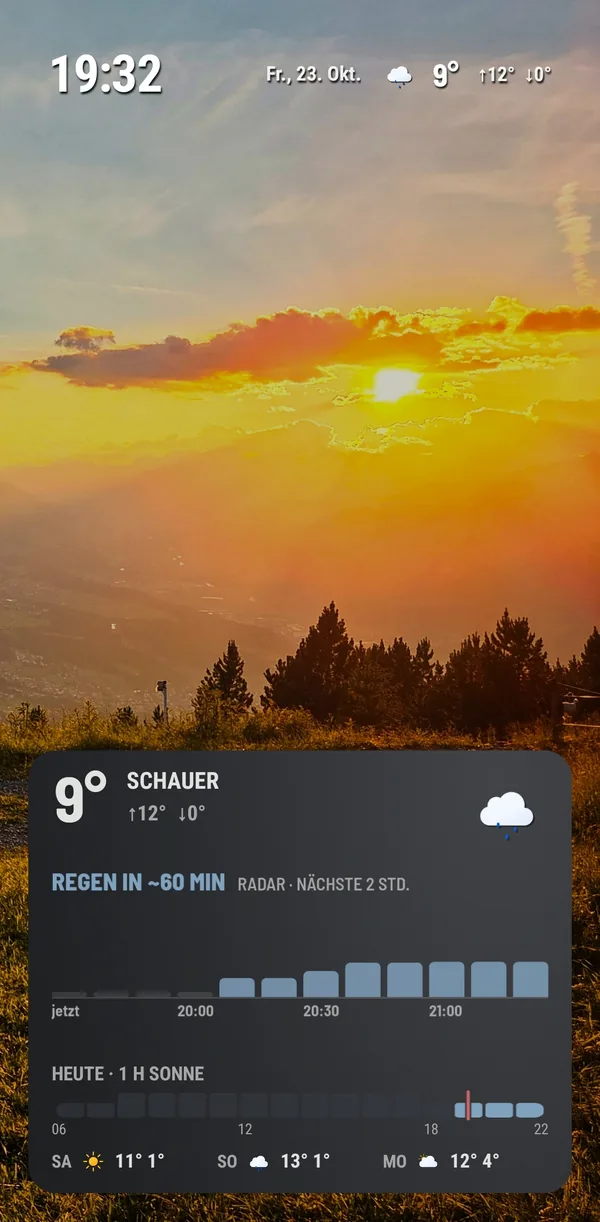
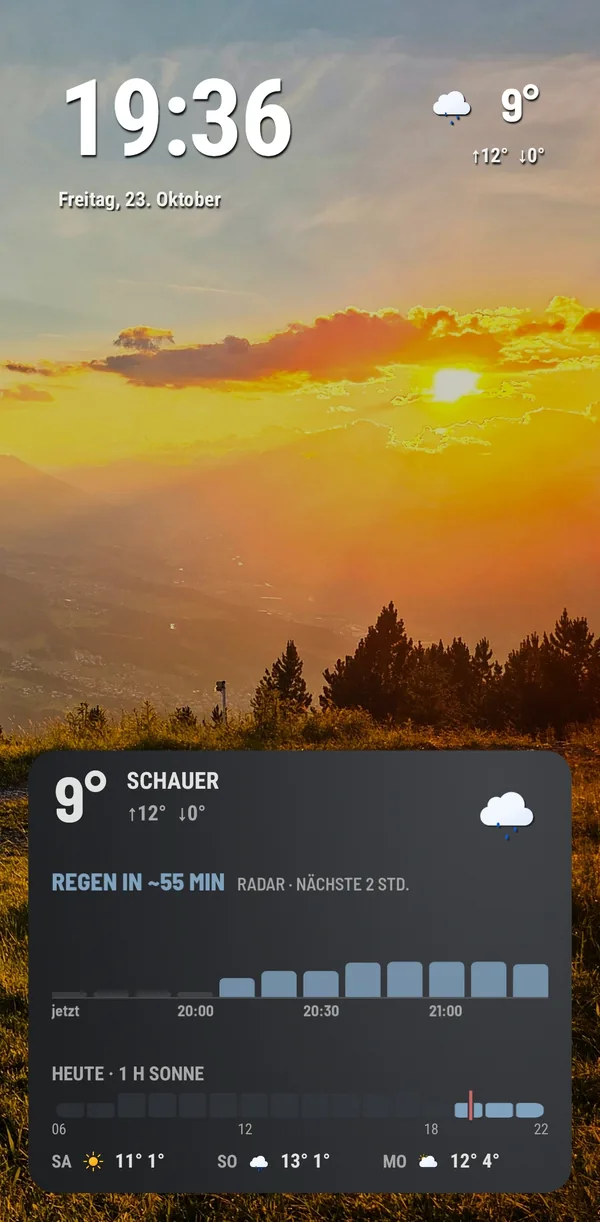
Texte bescheidener, „aus den Alpen“ statt Tirol, neuer Widget-Screenshot
- Hero: „Android-Apps aus den Alpen.“
- Haltung: persönlicher, ohne Selbstlob
- Drift: Beschreibung des Graphs mit allen Ebenen, Profil „Radfahren“ wie in der App
- Footer überall „Alpen“

Claude-Session: https://claude.ai/code/session_017odYhpXixmKQ8dy3U8U5RP

diff --git a/index.html b/index.html
@@ -4,10 +4,10 @@
 <meta charset="UTF-8">
 <meta name="viewport" content="width=device-width, initial-scale=1.0, viewport-fit=cover">
 <title>Altitude Built</title>
-<meta name="description" content="Altitude Built entwickelt klare, schöne Android-Apps in Tirol. Ohne Konto, mit möglichst wenig Berechtigungen.">
+<meta name="description" content="Android-Apps aus den Alpen. Ohne Konto, mit möglichst wenig Berechtigungen.">
 <meta name="theme-color" content="#0E1520">
 <meta property="og:title" content="Altitude Built">
-<meta property="og:description" content="Klare Apps für Android. Gebaut in Tirol.">
+<meta property="og:description" content="Android-Apps aus den Alpen.">
 <meta property="og:image" content="https://altitude-built.github.io/og-image.jpg">
 <meta property="og:type" content="website">
 <link rel="icon" type="image/png" href="Altitude-Built_Zeichen_512.png">
@@ -262,7 +262,7 @@ footer nav a:hover{color:var(--snow)}
         <path class="w-cream" fill-rule="evenodd" d="M1295,178 1296,177 1403,177 1423,179 1434,184 1439,189 1442,195 1445,209 1445,224 1446,225 1445,265 1443,276 1438,287 1433,292 1427,295 1414,298 1296,299 1295,298ZM181,174 232,262 231,264 131,264 130,263ZM1521,162 1521,314 1674,314 1674,299 1541,299 1540,298 1540,245 1541,244 1666,244 1666,229 1541,229 1540,228 1540,177 1541,176 1671,176 1671,162ZM1277,162 1277,314 1410,314 1436,309 1444,305 1453,297 1458,288 1462,273 1464,254 1464,222 1460,193 1456,183 1448,173 1435,166 1413,162ZM1034,162 1035,268 1041,293 1050,305 1065,313 1087,317 1164,317 1190,312 1198,308 1204,303 1212,290 1217,267 1218,162 1200,162 1200,249 1199,250 1198,274 1195,284 1188,294 1179,299 1157,302 1083,301 1068,297 1060,290 1057,285 1054,275 1052,255 1052,162ZM814,162 814,176 889,176 890,177 890,314 909,314 909,177 910,176 985,176 985,162ZM741,162 741,314 759,314 759,162ZM515,162 515,176 591,176 592,177 592,314 610,314 610,178 612,176 687,176 687,162ZM334,162 334,314 474,314 474,299 353,299 352,298 352,162ZM80,314 101,314 120,279 242,279 261,314 282,314 194,162 168,162Z"/>
         <path class="w-ember" fill-rule="evenodd" d="M87,418 88,417 134,418 137,419 141,423 142,433 141,436 136,440 88,441 87,440ZM87,393 88,392 135,393 139,397 139,406 135,411 132,412 88,412 87,411ZM523,387 523,392 551,392 552,393 552,446 559,446 559,393 560,392 588,392 588,387ZM413,387 413,446 466,446 466,441 421,441 419,439 419,387ZM342,387 342,446 348,446 348,387ZM209,387 209,430 214,442 219,445 228,447 260,447 268,445 275,440 279,427 279,387 273,387 273,421 272,431 270,436 266,440 263,441 251,441 250,442 225,441 222,440 217,435 215,428 215,387ZM80,387 80,446 130,446 140,444 146,440 148,435 148,424 146,419 138,414 144,410 146,404 145,395 140,389 132,387Z"/>
       </svg>
-      <p class="tagline">Klare Apps für Android. <b>Gebaut in Tirol.</b></p>
+      <p class="tagline">Android-Apps <b>aus den Alpen.</b></p>
     </div>
 
     <div class="hud" aria-hidden="true">
@@ -279,8 +279,8 @@ footer nav a:hover{color:var(--snow)}
         <h2>Weniger Gepäck.<br><em>Mehr Aussicht.</em></h2>
       </div>
       <div>
-        <p>Altitude Built baut Android-Apps, die ein echtes Alltagsproblem lösen und dabei richtig gut aussehen.</p>
-        <p>Keine überladenen Menüs, keine unnötigen Funktionen. Jede App wird so lange verfeinert, bis sie sich selbstverständlich anfühlt.</p>
+        <p>Altitude Built ist ein kleines Projekt aus den Alpen. Die Apps entstehen aus Dingen, die mich im Alltag selbst stören: beim Radfahren, beim Pendeln oder beim Tippen am Handy.</p>
+        <p>Lieber weniger Funktionen, die dafür gut durchdacht und angenehm zu bedienen sind.</p>
       </div>
     </section>
 
@@ -316,7 +316,7 @@ footer nav a:hover{color:var(--snow)}
             <div><h3>Drift Weather</h3><span class="chip">Interner Test</span></div>
           </div>
           <p class="app-claim">Das Wetter als Linie, nicht als Liste.</p>
-          <p>Temperatur, Regen, Wolken und Wind als ruhige Linien in einem Graph. Profile wie „Rennrad“ oder „Pendeln“ finden für jeden Tag die beste Zeit und sagen ehrlich, wenn es heute nichts wird.</p>
+          <p>Drift zeigt den ganzen Tag in einem einzigen Graph. Temperatur, Regen, Wind, Wolken, Luftdruck, Pollen und mehr liegen als Ebenen übereinander, jede lässt sich ein- und ausblenden. Profile wie „Radfahren“ oder „Pendeln“ finden für jeden Tag die beste Zeit und sagen ehrlich, wenn es heute nichts wird.</p>
           <ul class="facts">
             <li>Mehrere Wettermodelle im Vergleich, Uneinigkeit wird offen gezeigt</li>
             <li>Widgets in allen Größen und die Drift Uhr</li>
@@ -394,7 +394,7 @@ footer nav a:hover{color:var(--snow)}
   <div class="wrap">
     <div class="fb">
       <svg viewBox="84 110 348 306" aria-hidden="true"><path fill="#E9A46A" d="M251,118 L116,338 L92,382 L160,350 L184,336 L250,225 L325,352 L270,356 L425,409Z"/></svg>
-      <span>© 2026 Altitude Built · Tirol</span>
+      <span>© 2026 Altitude Built · Alpen</span>
     </div>
     <nav aria-label="Rechtliches">
       <a href="impressum.html">Impressum</a>

diff --git a/src/index.template.html b/src/index.template.html
@@ -4,10 +4,10 @@
 <meta charset="UTF-8">
 <meta name="viewport" content="width=device-width, initial-scale=1.0, viewport-fit=cover">
 <title>Altitude Built</title>
-<meta name="description" content="Altitude Built entwickelt klare, schöne Android-Apps in Tirol. Ohne Konto, mit möglichst wenig Berechtigungen.">
+<meta name="description" content="Android-Apps aus den Alpen. Ohne Konto, mit möglichst wenig Berechtigungen.">
 <meta name="theme-color" content="#0E1520">
 <meta property="og:title" content="Altitude Built">
-<meta property="og:description" content="Klare Apps für Android. Gebaut in Tirol.">
+<meta property="og:description" content="Android-Apps aus den Alpen.">
 <meta property="og:image" content="https://altitude-built.github.io/og-image.jpg">
 <meta property="og:type" content="website">
 <link rel="icon" type="image/png" href="Altitude-Built_Zeichen_512.png">
@@ -262,7 +262,7 @@ footer nav a:hover{color:var(--snow)}
         <path class="w-cream" fill-rule="evenodd" d="{{WORD_CREAM}}"/>
         <path class="w-ember" fill-rule="evenodd" d="{{WORD_EMBER}}"/>
       </svg>
-      <p class="tagline">Klare Apps für Android. <b>Gebaut in Tirol.</b></p>
+      <p class="tagline">Android-Apps <b>aus den Alpen.</b></p>
     </div>
 
     <div class="hud" aria-hidden="true">
@@ -279,8 +279,8 @@ footer nav a:hover{color:var(--snow)}
         <h2>Weniger Gepäck.<br><em>Mehr Aussicht.</em></h2>
       </div>
       <div>
-        <p>Altitude Built baut Android-Apps, die ein echtes Alltagsproblem lösen und dabei richtig gut aussehen.</p>
-        <p>Keine überladenen Menüs, keine unnötigen Funktionen. Jede App wird so lange verfeinert, bis sie sich selbstverständlich anfühlt.</p>
+        <p>Altitude Built ist ein kleines Projekt aus den Alpen. Die Apps entstehen aus Dingen, die mich im Alltag selbst stören: beim Radfahren, beim Pendeln oder beim Tippen am Handy.</p>
+        <p>Lieber weniger Funktionen, die dafür gut durchdacht und angenehm zu bedienen sind.</p>
       </div>
     </section>
 
@@ -316,7 +316,7 @@ footer nav a:hover{color:var(--snow)}
             <div><h3>Drift Weather</h3><span class="chip">Interner Test</span></div>
           </div>
           <p class="app-claim">Das Wetter als Linie, nicht als Liste.</p>
-          <p>Temperatur, Regen, Wolken und Wind als ruhige Linien in einem Graph. Profile wie „Rennrad“ oder „Pendeln“ finden für jeden Tag die beste Zeit und sagen ehrlich, wenn es heute nichts wird.</p>
+          <p>Drift zeigt den ganzen Tag in einem einzigen Graph. Temperatur, Regen, Wind, Wolken, Luftdruck, Pollen und mehr liegen als Ebenen übereinander, jede lässt sich ein- und ausblenden. Profile wie „Radfahren“ oder „Pendeln“ finden für jeden Tag die beste Zeit und sagen ehrlich, wenn es heute nichts wird.</p>
           <ul class="facts">
             <li>Mehrere Wettermodelle im Vergleich, Uneinigkeit wird offen gezeigt</li>
             <li>Widgets in allen Größen und die Drift Uhr</li>
@@ -394,7 +394,7 @@ footer nav a:hover{color:var(--snow)}
   <div class="wrap">
     <div class="fb">
       <svg viewBox="84 110 348 306" aria-hidden="true"><path fill="#E9A46A" d="{{MARK}}"/></svg>
-      <span>© 2026 Altitude Built · Tirol</span>
+      <span>© 2026 Altitude Built · Alpen</span>
     </div>
     <nav aria-label="Rechtliches">
       <a href="impressum.html">Impressum</a>

diff --git a/datenschutz.html b/datenschutz.html
@@ -75,7 +75,7 @@
   <p class="stand">Stand: Oktober 2026</p>
 </main>
 <footer><div class="wrap">
-  <span>© 2026 Altitude Built · Tirol</span>
+  <span>© 2026 Altitude Built · Alpen</span>
   <nav aria-label="Rechtliches"><a href="impressum.html">Impressum</a><a href="datenschutz.html" aria-current="page">Datenschutz</a></nav>
 </div></footer>
 </body>

diff --git a/drift/datenschutz/index.html b/drift/datenschutz/index.html
@@ -80,7 +80,7 @@
   <p class="stand">Stand: Oktober 2026</p>
 </main>
 <footer><div class="wrap">
-  <span>© 2026 Altitude Built · Tirol</span>
+  <span>© 2026 Altitude Built · Alpen</span>
   <nav aria-label="Rechtliches"><a href="../../impressum.html">Impressum</a><a href="../../datenschutz.html">Datenschutz Website</a></nav>
 </div></footer>
 </body>

diff --git a/impressum.html b/impressum.html
@@ -47,7 +47,7 @@
   <p class="stand">Stand: Oktober 2026</p>
 </main>
 <footer><div class="wrap">
-  <span>© 2026 Altitude Built · Tirol</span>
+  <span>© 2026 Altitude Built · Alpen</span>
   <nav aria-label="Rechtliches"><a href="impressum.html" aria-current="page">Impressum</a><a href="datenschutz.html">Datenschutz</a></nav>
 </div></footer>
 </body>

diff --git a/instinct/datenschutz/index.html b/instinct/datenschutz/index.html
@@ -93,7 +93,7 @@
   <p class="stand">Stand: Oktober 2026</p>
 </main>
 <footer><div class="wrap">
-  <span>© 2026 Altitude Built · Tirol</span>
+  <span>© 2026 Altitude Built · Alpen</span>
   <nav aria-label="Rechtliches"><a href="../../impressum.html">Impressum</a><a href="../../datenschutz.html">Datenschutz Website</a></nav>
 </div></footer>
 </body>

diff --git a/src/app_policies.py b/src/app_policies.py
@@ -28,7 +28,7 @@ def page(title, desc, body, up='../../'):
 {body}
 </main>
 <footer><div class="wrap">
-  <span>© 2026 Altitude Built · Tirol</span>
+  <span>© 2026 Altitude Built · Alpen</span>
   <nav aria-label="Rechtliches"><a href="{up}impressum.html">Impressum</a><a href="{up}datenschutz.html">Datenschutz Website</a></nav>
 </div></footer>
 </body>
